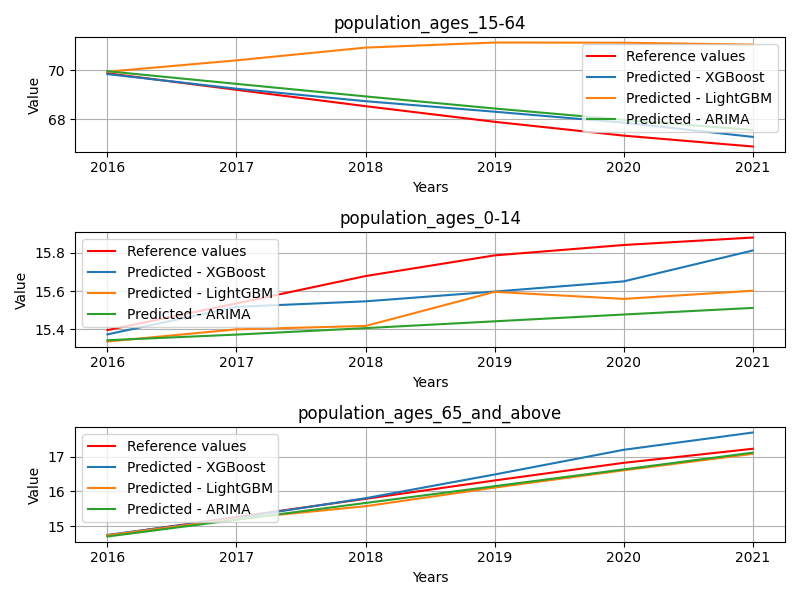
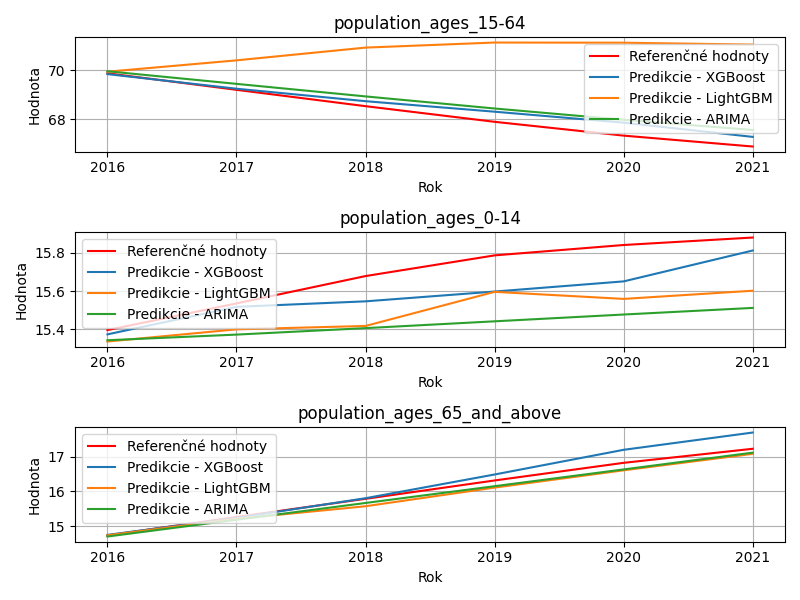
add plots with slovak descriptions

diff --git a/src/compare_models/compare.py b/src/compare_models/compare.py
@@ -29,72 +29,6 @@ from src.pipeline import FeatureModelPipeline, TargetModelPipeline, PredictorPip
 logger = logging.getLogger("model_compare")
 
 
-# class MultipleModelStateEvaluation:
-
-#     def __init__(self, state: str, reference_data: pd.DataFrame, features: List[str]):
-#         self.state: str = state
-
-#         self.predicted_years: List[int] = self.__get_predicted_years(df=reference_data)
-#         self.FEATURES: List[str] = features
-
-#         self.reference_data: pd.DataFrame | None = reference_data
-#         self.model_evaluation_dict: Dict[str, EvaluateModel] = {}
-
-#     def __get_min_max_years(self, df: pd.DataFrame) -> Tuple[int, int]:
-
-#         if "year" not in df.columns:
-#             raise ValueError("Could not find the 'year' column in the given dataframe.")
-
-#         return int(df["year"].min()), int(df["year"].max())
-
-#     def __get_predicted_years(self, df: pd.DataFrame) -> List[int]:
-#         min_year, max_year = self.__get_min_max_years(df=df)
-
-#         # Include the max year
-#         return list(range(min_year, max_year + 1))
-
-#     def plot_comparison_predictions(self) -> Figure:
-
-#         # Plot reference data
-
-#         N_FEATURES: int = len(self.FEATURES)
-#         YEARS: List[int] = self.predicted_years
-
-#         # Create a figure with N rows and 1 column
-#         fig, axes = plt.subplots(N_FEATURES, 1, figsize=(8, 2 * N_FEATURES))
-
-#         # Ensure axes is always iterable
-#         if N_FEATURES == 1:
-#             axes = [axes]  # Convert to list for consistent indexing
-
-#         # Plotting in each subplot
-#         for index, feature in zip(range(N_FEATURES), self.FEATURES):
-#             # Plot reference values
-#             axes[index].plot(
-#                 YEARS,
-#                 self.reference_data[feature],
-#                 label=f"Reference values",
-#                 color="r",
-#             )
-
-#             # Fore every model evaluation
-#             for model_name, evaluation in self.model_evaluation_dict.items():
-#                 # Plot predicted values
-#                 axes[index].plot(
-#                     YEARS,
-#                     evaluation.predicted[feature],
-#                     label=f"Predicted - {model_name}",
-#                     color="r",
-#                 )
-#             # Set the axis
-#             axes[index].set_title(f"{feature}")
-#             axes[index].set_xlabel("Years")
-#             axes[index].set_ylabel("Value")
-#             axes[index].legend()
-
-#         return fig
-
-
 class ModelComparator:
 
     def __init__(self):
@@ -302,8 +236,26 @@ class ModelComparator:
         return df_ranked
 
     def create_state_comparison_plot(
-        self, state: str, model_names: Optional[List[str]] = None
+        self,
+        state: str,
+        model_names: Optional[List[str]] = None,
+        lang: Literal["en", "sk"] = "en",
     ) -> Figure:
+
+        LABELS: Dict[str, Dict[str, str]] = {
+            "en": {
+                "reference_values": "Reference values",
+                "predicted_values": "Predicted",
+                "yaxis": "Value",
+                "xaxis": "Year",
+            },
+            "sk": {
+                "reference_values": "Referenčné hodnoty",
+                "predicted_values": "Predikcie",
+                "yaxis": "Hodnota",
+                "xaxis": "Rok",
+            },
+        }
 
         # Plot refference data
         if not self.model_evaluations:
@@ -337,6 +289,9 @@ class ModelComparator:
         # Create a figure with N rows and 1 column
         fig, axes = plt.subplots(N_TARGETS, 1, figsize=(8, 2 * N_TARGETS))
 
+        if N_TARGETS == 1:
+            axes = [axes]
+
         # Plotting in each subplot
         for index, target in zip(range(N_TARGETS), TARGETS):
 
@@ -344,7 +299,7 @@ class ModelComparator:
             axes[index].plot(
                 YEARS,
                 reference_data[target],
-                label=f"Reference values",
+                label=LABELS[lang]["reference_values"],
                 color="r",
             )
 
@@ -359,13 +314,13 @@ class ModelComparator:
                     # evaluation.multiple_states_evaluations[state]["years"],
                     YEARS,
                     evaluation.multiple_states_evaluations[state]["predicted"][target],
-                    label=f"Predicted - {model_name}",
+                    label=f"{LABELS[lang]['predicted_values']} - {model_name}",
                 )
 
             # Set the axis
             axes[index].set_title(f"{target}")
-            axes[index].set_xlabel("Years")
-            axes[index].set_ylabel("Value")
+            axes[index].set_xlabel(LABELS[lang]["xaxis"])
+            axes[index].set_ylabel(LABELS[lang]["yaxis"])
             axes[index].grid()
             axes[index].legend()
 

diff --git a/model_selection/second_model_selection.py b/model_selection/second_model_selection.py
@@ -401,11 +401,14 @@ class SecondModelSelection(BaseExperiment):
         comparator: ModelComparator,
         states: List[str],
         models: List[str],
+        lang: Literal["en", "sk"] = "en",
     ) -> None:
 
         for state in states:
             fig = comparator.create_state_comparison_plot(
-                state=state, model_names=models
+                state=state,
+                model_names=models,
+                lang=lang,
             )
             self.save_plot(
                 fig_name=f"{self.TARGET_GROUP_PREFIX}_{state}_predictions.png",
@@ -524,6 +527,7 @@ class SecondModelSelection(BaseExperiment):
                 "Rwanda",
             ],
             models=TOP_N_MODELS,
+            lang="sk",
         )
 
 

diff --git a/model_selection/feature_model_selection.py b/model_selection/feature_model_selection.py
@@ -379,11 +379,14 @@ class FeatureModelExperiment(BaseExperiment):
         comparator: ModelComparator,
         states: List[str],
         models: List[str],
+        lang: Literal["en", "sk"] = "en",
     ) -> None:
 
         for state in states:
             fig = comparator.create_state_comparison_plot(
-                state=state, model_names=models
+                state=state,
+                model_names=models,
+                lang=lang,
             )
             self.save_plot(fig_name=f"{state}_predictions.png", figure=fig)
 
@@ -509,6 +512,7 @@ class FeatureModelExperiment(BaseExperiment):
                 "Rwanda",
             ],
             models=TOP_N_MODELS,
+            lang="sk",
         )
 
 

diff --git a/model_experiments/experiment_results/SecondModelSelection/gender_dist_README.md b/model_experiments/experiment_results/SecondModelSelection/gender_dist_README.md
@@ -5,37 +5,33 @@
 
 ## Model ARIMA - top states
 ```
-          mae       mse      rmse        r2        state  model   rank
-211  0.015000  0.000421  0.020521  0.977578  Timor-Leste  ARIMA  257.0
-226  0.025886  0.000928  0.030471  0.968880      Vanuatu  ARIMA  507.0
-178  0.004758  0.000055  0.007414  0.966273      Romania  ARIMA   21.0
+Empty DataFrame
+Columns: [mae, mse, rmse, r2, state, model, rank]
+Index: []
 ```
 
 
 ## Model ARIMA - worst states
 ```
-          mae       mse      rmse          r2                   state  model    rank
-217  0.050368  0.004025  0.063446 -513.437759            Turkmenistan  ARIMA  2881.0
-24   0.215491  0.067460  0.259731 -668.480003  Bosnia and Herzegovina  ARIMA  4673.0
-78   0.238066  0.080901  0.284431 -990.636206                 Georgia  ARIMA  4852.0
+Empty DataFrame
+Columns: [mae, mse, rmse, r2, state, model, rank]
+Index: []
 ```
 
 
 ## Model ARIMAX - top states
 ```
-          mae       mse      rmse        r2                     state   model  rank
-263  0.009733  0.000184  0.013581  0.965374                    Brazil  ARIMAX  86.0
-455  0.006567  0.000097  0.009572  0.955419                    Uganda  ARIMAX  40.0
-412  0.009897  0.000140  0.011829  0.950121  Pre-demographic dividend  ARIMAX  76.0
+Empty DataFrame
+Columns: [mae, mse, rmse, r2, state, model, rank]
+Index: []
 ```
 
 
 ## Model ARIMAX - worst states
 ```
-           mae         mse       rmse             r2             state   model    rank
-342   0.517685    0.436414   0.648562   -2339.575254       Isle of Man  ARIMAX  6085.0
-280   1.027438    2.196977   1.084198   -3372.887059  Congo, Dem. Rep.  ARIMAX  7081.0
-299  22.782853  689.051011  26.249781 -885914.544165           Eritrea  ARIMAX  7584.0
+Empty DataFrame
+Columns: [mae, mse, rmse, r2, state, model, rank]
+Index: []
 ```
 
 
@@ -137,37 +133,37 @@ Index: []
 
 ## Per target metrics - model comparision
 ```
-               target                      model       mae       mse      rmse           r2  rank
-0   population_female        gender_dist_XGBoost  0.149675  0.105588  0.185706   -10.355222     1
-1   population_female       gender_dist_LightGBM  0.165890  0.138393  0.195994   -13.530153     3
-2   population_female  gender_dist_random_forest  0.218305  0.452014  0.247069   -16.151870     7
-3   population_female                      ARIMA  0.187231  0.228593  0.225463   -17.903565     5
-4   population_female           gender_dist_LSTM  0.710960  1.425313  0.741063 -1125.246774    11
-5   population_female            gender_dist_GRU  0.781937  1.784101  0.836499 -1470.623202    13
-6   population_female            gender_dist_RNN  0.924856  2.207752  0.968636 -1592.126708    15
-7   population_female                     ARIMAX  0.325619  3.210540  0.383907 -3773.928662     9
-8     population_male        gender_dist_XGBoost  0.149958  0.105221  0.185871   -10.560817     2
-9     population_male       gender_dist_LightGBM  0.165890  0.138393  0.195994   -13.530154     4
-10    population_male  gender_dist_random_forest  0.218337  0.452031  0.247076   -16.156741     8
-11    population_male                      ARIMA  0.195532  0.296123  0.233157   -17.112842     6
-12    population_male           gender_dist_LSTM  0.732298  1.837157  0.755388  -969.090816    12
-13    population_male            gender_dist_RNN  0.909044  1.853983  0.960082 -1660.619765    14
-14    population_male            gender_dist_GRU  1.154152  4.011211  1.183700 -2643.753297    16
-15    population_male                     ARIMAX  0.345230  3.251145  0.407238 -3818.681809    10
+               target          model       mae       mse      rmse           r2  rank
+0   population_female        XGBoost  0.149675  0.105588  0.185706   -10.355222     1
+1   population_female       LightGBM  0.165890  0.138393  0.195994   -13.530153     3
+2   population_female  random_forest  0.218305  0.452014  0.247069   -16.151870     7
+3   population_female          ARIMA  0.187231  0.228593  0.225463   -17.903565     5
+4   population_female           LSTM  0.710960  1.425313  0.741063 -1125.246774    11
+5   population_female            GRU  0.781937  1.784101  0.836499 -1470.623202    13
+6   population_female            RNN  0.924856  2.207752  0.968636 -1592.126708    15
+7   population_female         ARIMAX  0.325619  3.210540  0.383907 -3773.928662     9
+8     population_male        XGBoost  0.149958  0.105221  0.185871   -10.560817     2
+9     population_male       LightGBM  0.165890  0.138393  0.195994   -13.530154     4
+10    population_male  random_forest  0.218337  0.452031  0.247076   -16.156741     8
+11    population_male          ARIMA  0.195532  0.296123  0.233157   -17.112842     6
+12    population_male           LSTM  0.732298  1.837157  0.755388  -969.090816    12
+13    population_male            RNN  0.909044  1.853983  0.960082 -1660.619765    14
+14    population_male            GRU  1.154152  4.011211  1.183700 -2643.753297    16
+15    population_male         ARIMAX  0.345230  3.251145  0.407238 -3818.681809    10
 ```
 
 
 ## Overall metrics - model comparision
 ```
-        mae       mse      rmse           r2                      model  rank
-5  0.152435  0.102863  0.188660    -9.786589        gender_dist_XGBoost   4.0
-7  0.164130  0.135818  0.193887   -10.233497       gender_dist_LightGBM   8.0
-0  0.194362  0.274776  0.232729   -13.581815                      ARIMA  12.0
-6  0.220588  0.459863  0.249659   -15.561229  gender_dist_random_forest  16.0
-1  0.272545  1.383705  0.323066 -1425.358241                     ARIMAX  21.0
-3  0.728606  1.665476  0.755860 -1044.067835           gender_dist_LSTM  23.0
-2  0.930610  2.064451  0.979180 -1539.268361            gender_dist_RNN  28.0
-4  0.985829  2.952317  1.029541 -2114.947706            gender_dist_GRU  32.0
+        mae       mse      rmse           r2          model  rank
+5  0.152435  0.102863  0.188660    -9.786589        XGBoost   4.0
+7  0.164130  0.135818  0.193887   -10.233497       LightGBM   8.0
+0  0.194362  0.274776  0.232729   -13.581815          ARIMA  12.0
+6  0.220588  0.459863  0.249659   -15.561229  random_forest  16.0
+1  0.272545  1.383705  0.323066 -1425.358241         ARIMAX  21.0
+3  0.728606  1.665476  0.755860 -1044.067835           LSTM  23.0
+2  0.930610  2.064451  0.979180 -1539.268361            RNN  28.0
+4  0.985829  2.952317  1.029541 -2114.947706            GRU  32.0
 ```
 
 
